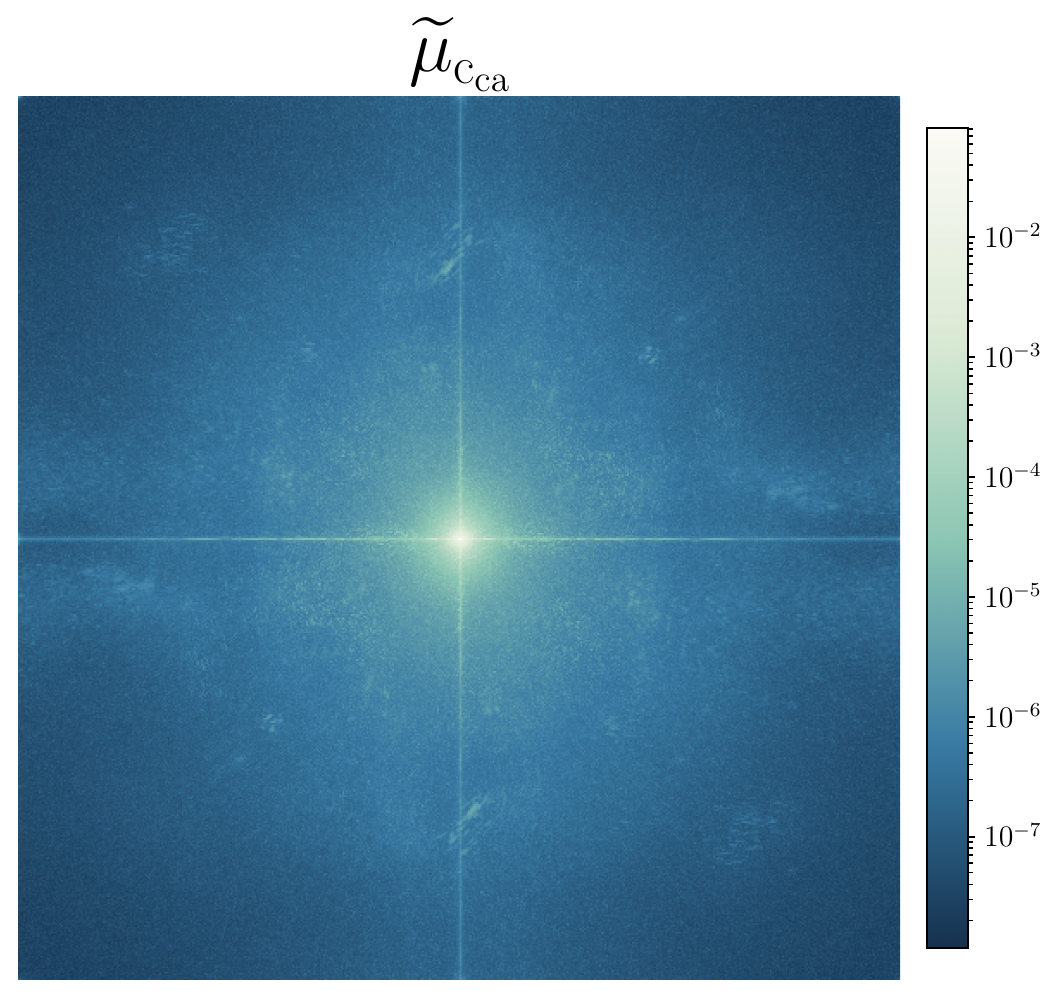
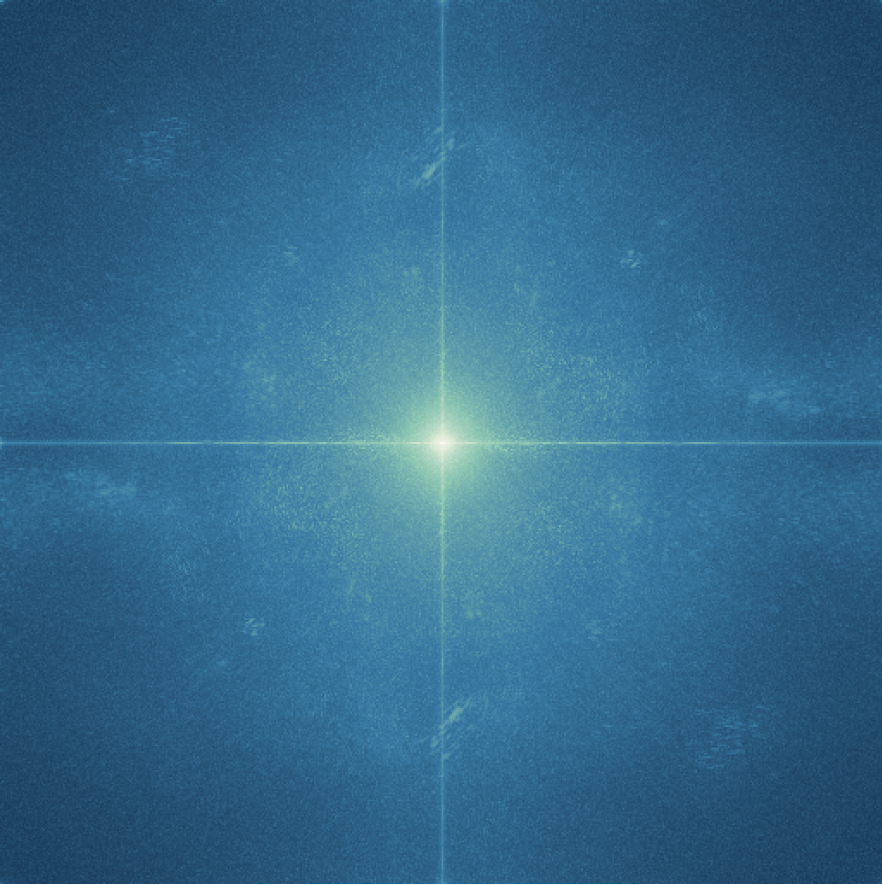
attempting to fix thumbnail issues

diff --git a/_sass/layout/_archive.scss b/_sass/layout/_archive.scss
@@ -265,12 +265,13 @@
   border-bottom: 1px solid var(--global-border-color);
 
   @include breakpoint($small) {
-    grid-template-columns: 150px minmax(0, 1fr);
+    grid-template-columns: 185px minmax(0, 1fr);
   }
 }
 
 .publication-card__media {
   display: block;
+  align-self: start;
   overflow: hidden;
   border: 1px solid var(--global-border-color);
   border-radius: $border-radius;
